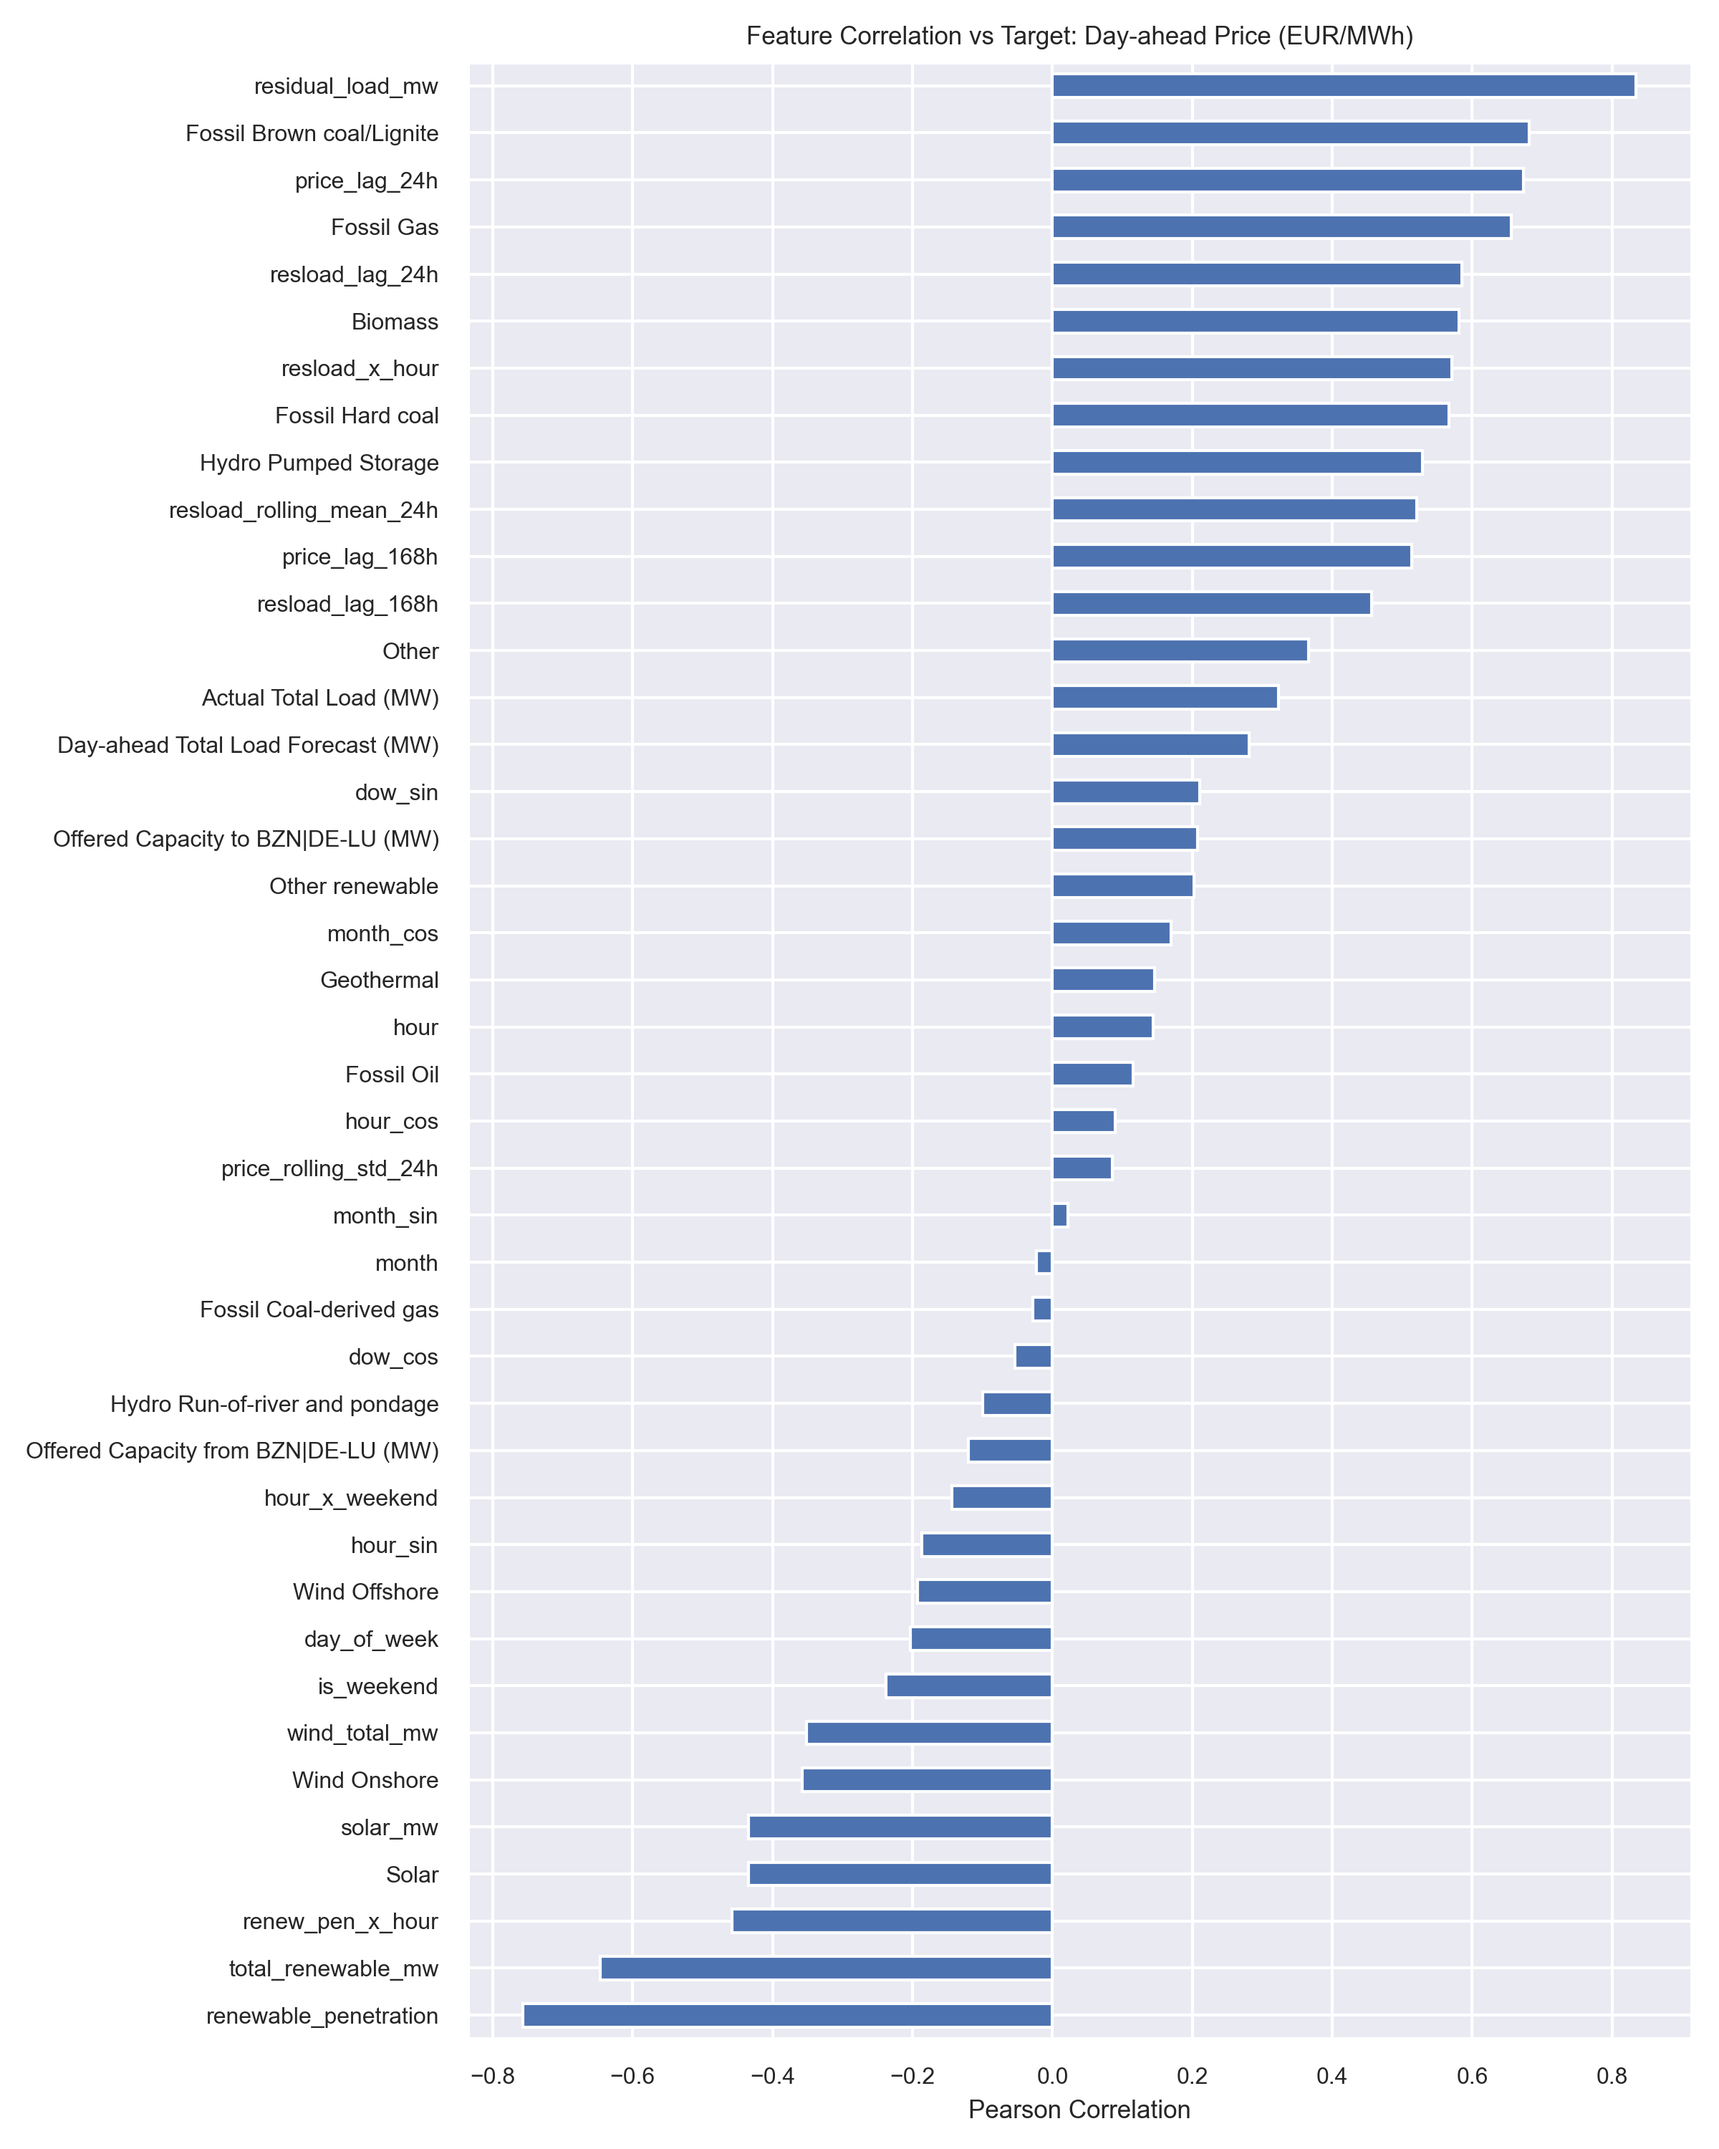
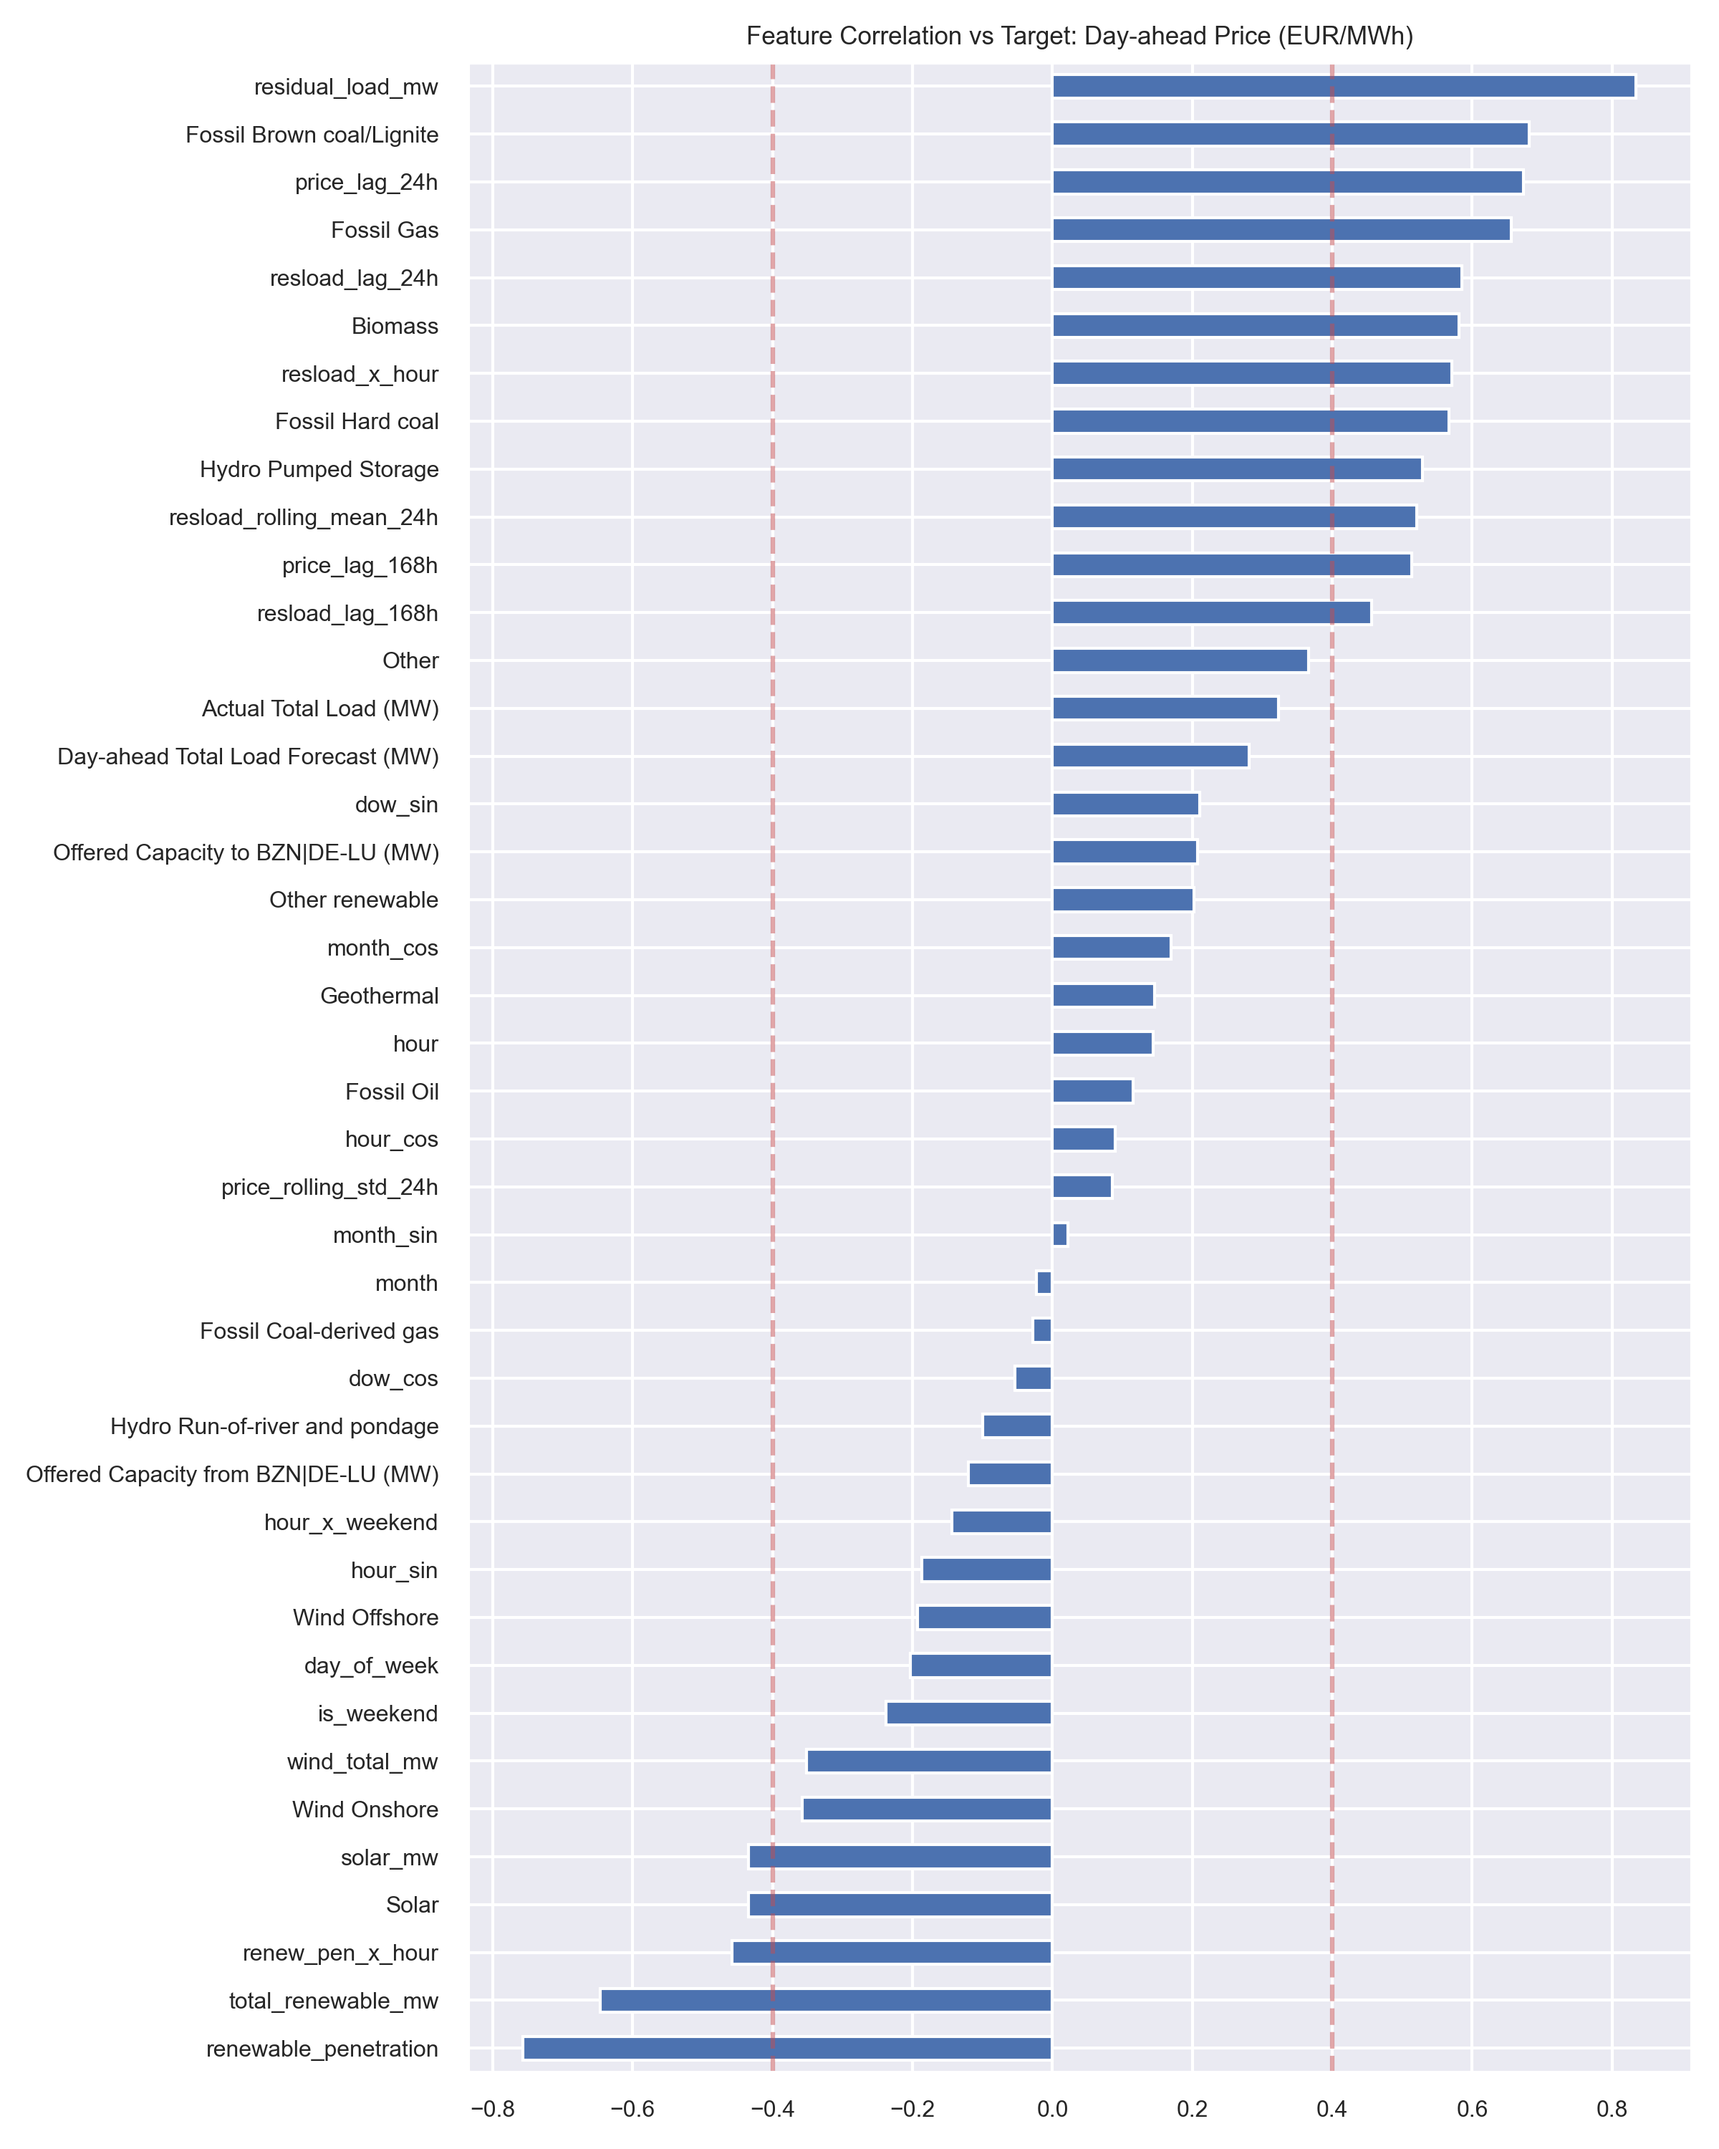
Feature engineering robust

diff --git a/src/part_2.py b/src/part_2.py
@@ -22,7 +22,7 @@ logging.basicConfig(
 )
 
 class PowerFeatureEngineer:
-    def __init__(self, target_col: str = "Day Ahead Price (EUR/MWh)"):
+    def __init__(self, target_col: str = "Day-ahead Price (EUR/MWh)"):
         self.target_col = target_col
     
     def create_all_features(self, df: pd.DataFrame) -> pd.DataFrame:
@@ -42,6 +42,10 @@ class PowerFeatureEngineer:
         df = self._create_lag_features(df)
         df = self._create_rolling_features(df)
         df = self._create_interaction_features(df)
+        
+        initial_len = len(df)
+        df = df.dropna().reset_index(drop=True)
+        logging.info(f"Dropped {initial_len - len(df)} rows due to initial window NaNs.")
         
         return df
     
@@ -145,9 +149,10 @@ class PowerFeatureEngineer:
 def corr_analysis(df: pd.DataFrame,
                  target_col: str,
                  timestamp_col: str = "timestamp",
-                 output_prefix: str = "corr"):
+                 output_prefix: str = "corr",
+                 threshold: float = 0.4): # Added threshold parameter
 
-    # ---- Prepare numeric-only dataframe ----
+    # Prepare numeric-only dataframe
     dfc = df.copy()
     if timestamp_col in dfc.columns:
         dfc = dfc.drop(columns=[timestamp_col])
@@ -155,41 +160,39 @@ def corr_analysis(df: pd.DataFrame,
     dfc = dfc.select_dtypes(include=[np.number])
 
     if target_col not in dfc.columns:
-        raise KeyError("Target column not found in dataframe")
+        raise KeyError(f"Target column '{target_col}' not found in dataframe")
 
-    # ---- Correlation matrix ----
+    # Correlation matrix
     corr_matrix = dfc.corr(method="pearson")
 
-    # ---- Save full heatmap using seaborn clustermap ----
-    # Mask small correlations for clarity
+    # Full heatmap plotting (existing logic)
     mask = np.abs(corr_matrix) < 0.2
-    # Set diagonal to False so main diagonal is always shown
     np.fill_diagonal(mask.values, False)
-    sns.set(font_scale=0.7)
-    g = sns.clustermap(
-        corr_matrix,
-        cmap="coolwarm",
-        vmin=-1, vmax=1,
-        linewidths=0.1,
-        figsize=(14, 12),
-        mask=mask,
-        annot=False,
-        cbar_kws={"label": "Correlation"}
-    )
+    sns.set_theme(font_scale=0.7)
+    g = sns.clustermap(corr_matrix, cmap="coolwarm", vmin=-1, vmax=1, 
+                       linewidths=0.1, figsize=(14, 12), mask=mask)
     plt.title("Feature Correlation Matrix (Clustered)", pad=80)
     plt.savefig(os.path.join("results", f"part2_{output_prefix}_heatmap.png"), dpi=300)
     plt.close()
 
-    # ---- Correlation vs target ----
-    target_corr = corr_matrix[target_col].drop(target_col).sort_values()
-
+    # Dynamic Feature Selection Logic
+    target_corr = corr_matrix[target_col].drop(target_col)
+    
+    # Filter features where |correlation| >= threshold
+    selected_features = target_corr[target_corr.abs() >= threshold].index.tolist()
+    
+    # Correlation vs target bar plot (existing logic)
     plt.figure(figsize=(8,10))
-    target_corr.plot(kind="barh")
+    target_corr.sort_values().plot(kind="barh")
     plt.title(f"Feature Correlation vs Target: {target_col}")
-    plt.xlabel("Pearson Correlation")
+    plt.axvline(threshold, color='r', linestyle='--', alpha=0.5)
+    plt.axvline(-threshold, color='r', linestyle='--', alpha=0.5)
     plt.tight_layout()
     plt.savefig(os.path.join("results", f"part2_{output_prefix}_target_bar.png"), dpi=300)
     plt.close()
+
+    logging.info(f"Programmatically selected {len(selected_features)} features with |corr| >= {threshold}")
+    return selected_features
 
 def feat_plotting(df: pd.DataFrame, 
              target_col: str,
@@ -262,17 +265,6 @@ def feat_plotting(df: pd.DataFrame,
     plt.close()
     logging.info("Saved Price vs. Residual Load plot to %s", output_path)
 
-# High correlation features (|corr| > 0.28 from analysis)
-SELECTED_FEATURES = ['renewable_penetration', 'total_renewable_mw', 'renew_pen_x_hour',
-       'Solar', 'solar_mw', 'Wind Onshore', 'wind_total_mw',
-       'Day-ahead Total Load Forecast (MW)', 'Actual Total Load (MW)',
-       'Other', 'resload_lag_168h', 'resload_rolling_mean_24h',
-       'Hydro Pumped Storage', 'Fossil Hard coal', 'resload_x_hour',
-       'resload_lag_24h', 'Biomass', 'Fossil Gas',
-       'Fossil Brown coal/Lignite', 'residual_load_mw']
-
-TARGET = "Day-ahead Price (EUR/MWh)"
-
 # =======================
 # Walk-Forward Validator
 # =======================
@@ -286,7 +278,9 @@ class WalkForwardValidator:
         n = len(df)
         start = self.train_size
         while start + self.test_size <= n:
-            yield np.arange(start), np.arange(start, start + self.test_size)
+            train_idx = np.arange(start)
+            test_idx = np.arange(start, start + self.test_size)
+            yield train_idx, test_idx
             start += self.step
 
 # ========
@@ -327,7 +321,7 @@ def train_ridge(X_train, y_train, X_test):
     model.fit(X_train_scaled, y_train)
     return model.predict(X_test_scaled), model
 
-def train_lightgbm(X_train, y_train, X_test, quantile=None):
+def train_lightgbm(X_train, y_train, X_test, quantile=None, early_stopping_rounds=500):
     params = {
         'objective': 'quantile' if quantile else 'regression',
         'metric': 'quantile' if quantile else 'rmse',
@@ -340,14 +334,29 @@ def train_lightgbm(X_train, y_train, X_test, quantile=None):
         'min_data_in_leaf': 50,
         'lambda_l1': 0.1,
         'lambda_l2': 0.1,
-        'verbose': -1
+        'verbose': -1,
+        'seed': 42
     }
     
     if quantile:
         params['alpha'] = quantile
     
-    train_data = lgb.Dataset(X_train.fillna(0), label=y_train)
-    model = lgb.train(params, train_data, num_boost_round=500)
+    # small validation split from the tail of train for early stopping
+    val_frac = 0.1
+    n_train = len(X_train)
+    if n_train > 1000:
+        cut = int(n_train * (1 - val_frac))
+        train_set = lgb.Dataset(X_train.iloc[:cut].fillna(0), label=y_train.iloc[:cut])
+        val_set = lgb.Dataset(X_train.iloc[cut:].fillna(0), label=y_train.iloc[cut:])
+        model = lgb.train(params, train_set, num_boost_round=500,
+                          valid_sets=[train_set, val_set],
+                          valid_names=['train','valid'],
+                          early_stopping_rounds=early_stopping_rounds,
+                          verbose_eval=False)
+    else:
+        train_set = lgb.Dataset(X_train.fillna(0), label=y_train)
+        model = lgb.train(params, train_set, num_boost_round=200, verbose_eval=False)
+
     return model.predict(X_test.fillna(0)), model
 
 # =======================
@@ -370,7 +379,7 @@ def run_walk_forward_cv(df, features, target):
     all_predictions = []
     
     for fold, (train_idx, test_idx) in enumerate(validator.split(df), 1):
-        train = df.iloc[:train_idx.max()].copy()
+        train = df.iloc[: train_idx.max() + 1].copy()
         test = df.iloc[test_idx].copy()
         
         y_test = test[target].values
@@ -445,8 +454,10 @@ def train_final_model(df, features, target, test_start='2025-11-01'):
     print("="*70)
     
     df['timestamp'] = pd.to_datetime(df['timestamp'])
-    train_mask = df['timestamp'] < test_start
-    test_mask = df['timestamp'] >= test_start
+    test_start_ts = pd.Timestamp(test_start, tz='UTC')
+    train_mask = df['timestamp'] < test_start_ts
+    test_mask  = df['timestamp'] >= test_start_ts
+    
     
     train = df[train_mask].copy()
     test = df[test_mask].copy()
@@ -635,11 +646,20 @@ def main():
     df['timestamp'] = pd.to_datetime(df['timestamp'])
     df = df.sort_values('timestamp').reset_index(drop=True)
     
+    TARGET = "Day-ahead Price (EUR/MWh)"
     if TARGET not in df.columns:
         raise ValueError(f"Target column '{TARGET}' not found in data")
     
-    print(f"Loaded {len(df):,} rows")
-    print(f"Date range: {df['timestamp'].min()} to {df['timestamp'].max()}")
+    logging.info(f"Loaded {len(df):,} rows")
+    logging.info(f"Date range: {df['timestamp'].min()} to {df['timestamp'].max()}")
+    
+    # Threshold set to 0.4
+    SELECTED_FEATURES = corr_analysis(
+        df=df_featured,
+        target_col=TARGET,
+        threshold=0.4
+    )
+    logging.info(f"Selected features: {SELECTED_FEATURES}")
 
     # # Walk-forward CV
     # summary, cv_predictions = run_walk_forward_cv(df, SELECTED_FEATURES, TARGET)
